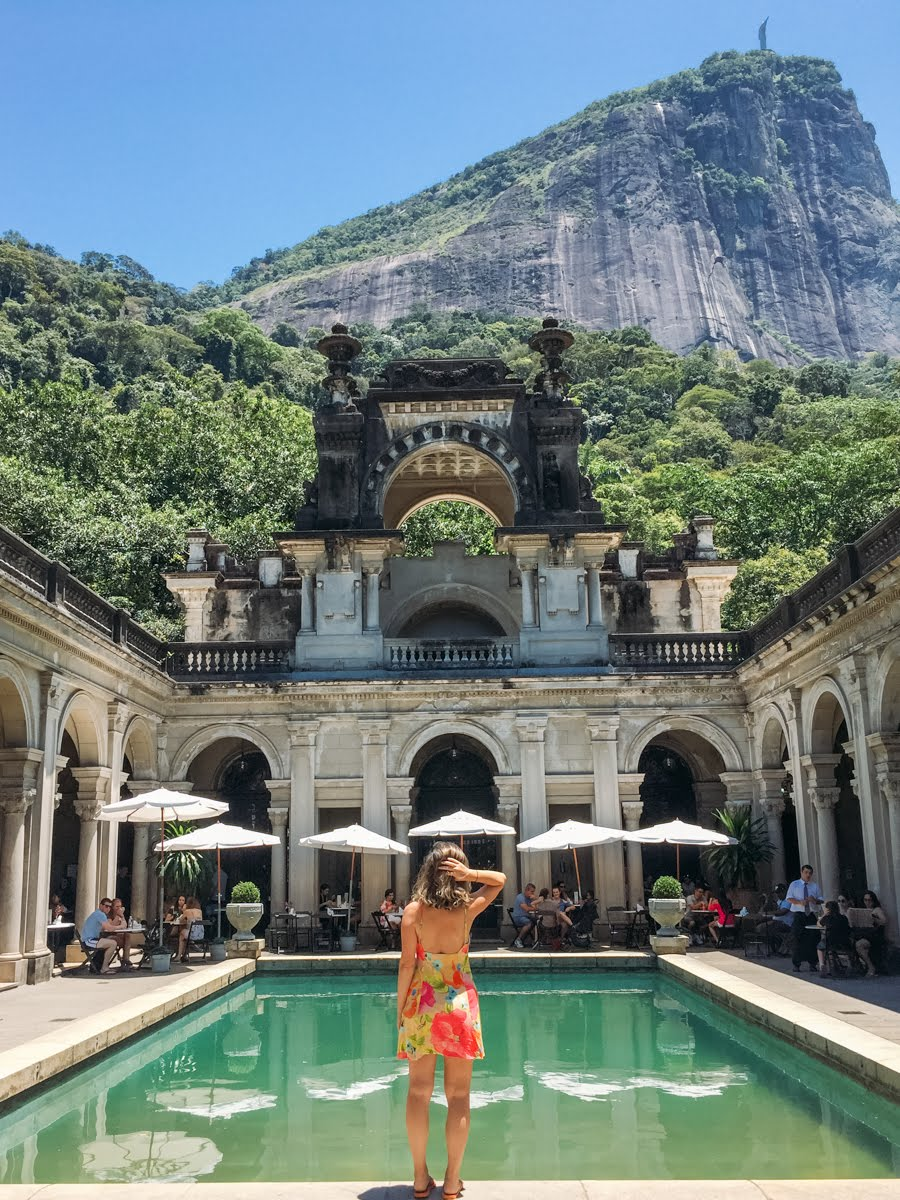
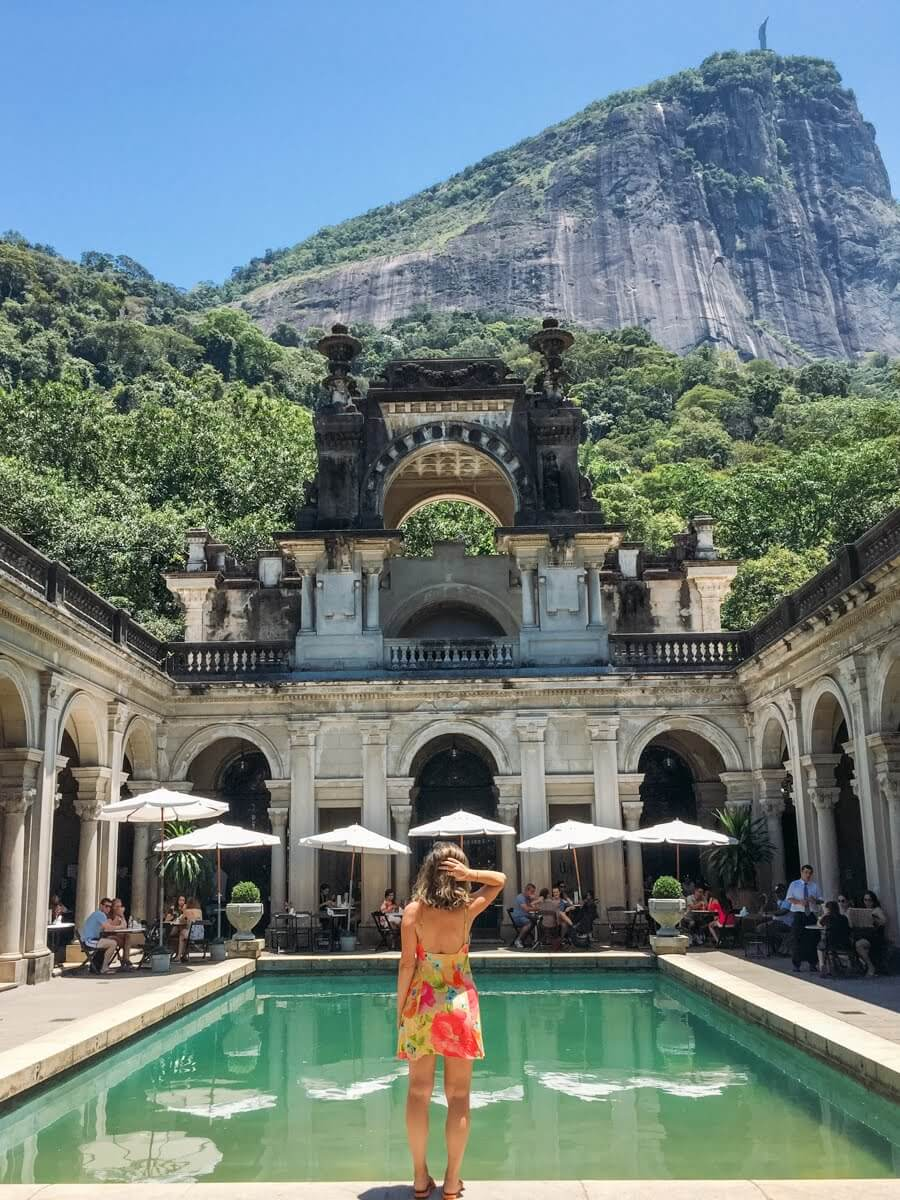
Images Optimized

diff --git a/pages/view-list.html b/pages/view-list.html
@@ -277,15 +277,13 @@
                 <div class="row featurette">
                     <div class="col-md-7">
                         <h2 class="featurette-heading fw-normal lh-1">
-                            Denis,are you ok?
+                            Perfect union between civilization and surprising landscapes
                             <span class="text-body-secondary">Checkmate.</span>
                         </h2>
                         <p class="lead">
-                            And yes, this is the last block of representative
-                            placeholder content. Again, not really intended to
-                            be actually read, simply here to give you a better
-                            view of what this would look like with some actual
-                            content. Your content.
+                            ... and why not have the opportunity to connect with nature 
+                            without leaving the city? Take advantage of all the facilities 
+                            of a big city while admiring the natural beauty around you.
                         </p>
                     </div>
                     <div class="col-md-5">
